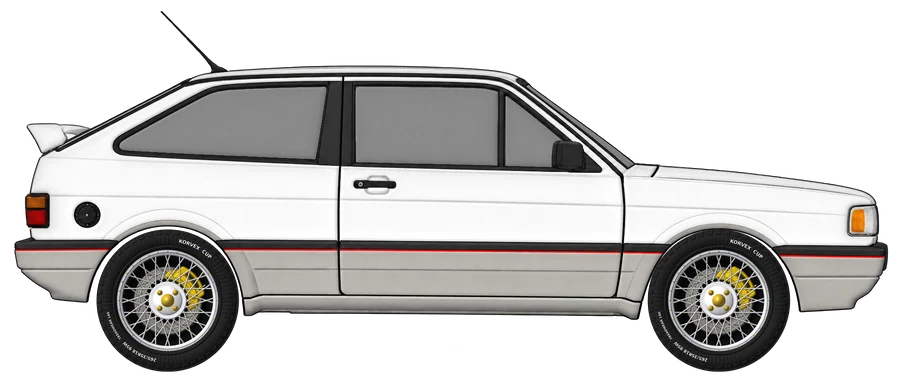
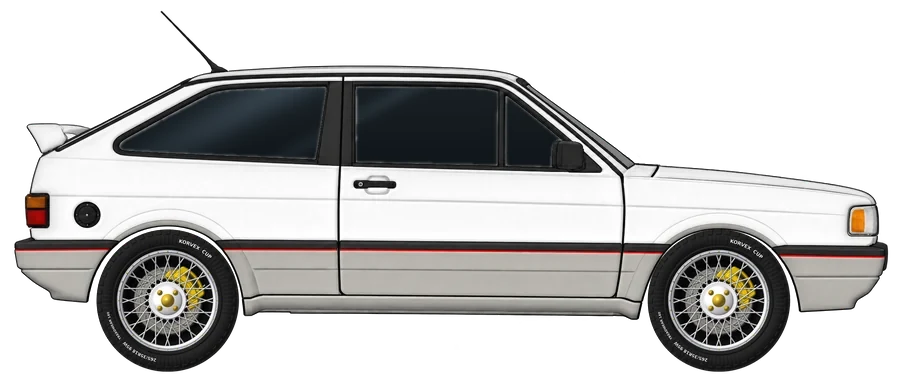
Adiciona instrumentos da cabine e atualiza visuais do Gol

Changed region(s): [[0.1244, 0.234, 0.6222, 0.4681]]

diff --git a/assets/instrumentos.js b/assets/instrumentos.js
@@ -1,0 +1,56 @@
+/* Demonstrações visuais de instrumentos e câmbio. Valores ilustrativos, não são os do jogo. */
+(()=>{
+const $=s=>document.querySelector(s),rm=matchMedia("(prefers-reduced-motion:reduce)").matches,calm=()=>document.documentElement.classList.contains("calm")||rm;
+const visible=(el,set)=>new IntersectionObserver(e=>set(e[0].isIntersecting)).observe(el);
+/* ---------- câmbio ---------- */
+const gc=$("#gears");
+if(gc&&window.Tach){
+ const M=3.65,TOT=30,PAIRS=[[7,23],[10,20],[12,18],[15,15],[17,13]],W=860,H=330,Y1=104,D=TOT*M,Y2=Y1+D,x=gc.getContext("2d");
+ const tach=Tach.create($("#tach"),{panel:"#e05a2b",light:"#ffffff",lit:1,rpm:900});
+ let gear=0,thr=0,rpm=900,th=0,vis=true,last=performance.now(),cut=0;
+ let cx=104;const cols=PAIRS.map(([nd,nn])=>{const rd=nd*M,rn=nn*M,w=2*Math.max(rd,rn),c={nd,nn,rd,rn,x:cx+w/2};cx+=w+14;return c});
+  const teeth=(cxx,cy,N,r,a,fill,edge)=>{const st=6.2832/N,ro=r+M*.9,ri=r-M*1.1;x.beginPath();
+  for(let k=0;k<N;k++){const b=a+k*st;[[ri,-.47],[ro,-.25],[ro,.25],[ri,.47]].forEach(([R,f],i)=>{const q=b+f*st;(k||i)?x.lineTo(cxx+Math.cos(q)*R,cy+Math.sin(q)*R):x.moveTo(cxx+Math.cos(q)*R,cy+Math.sin(q)*R)})}
+  x.closePath();const g=x.createRadialGradient(cxx-r*.3,cy-r*.4,r*.1,cxx,cy,ro);g.addColorStop(0,fill[0]);g.addColorStop(1,fill[1]);x.fillStyle=g;x.fill();x.lineWidth=1.5;x.strokeStyle=edge;x.stroke();
+  /* furos de alívio e cubo */
+  if(r>40){const n=r>70?5:4;x.fillStyle="#070a08";for(let k=0;k<n;k++){const q=a+k*6.2832/n,rr=r*.55,hr=r*.17;x.beginPath();x.arc(cxx+Math.cos(q)*rr,cy+Math.sin(q)*rr,hr,0,6.2832);x.fill()}}
+  x.fillStyle="#0b0f0c";x.beginPath();x.arc(cxx,cy,Math.min(14,r*.32),0,6.2832);x.fill();x.strokeStyle=edge;x.stroke()};
+ const shaft=(y,ang,col)=>{x.fillStyle="#1b2220";x.fillRect(8,y-9,W-16,18);x.strokeStyle=col;x.lineWidth=1.5;x.strokeRect(8,y-9,W-16,18);
+  x.save();x.beginPath();x.rect(8,y-9,W-16,18);x.clip();x.strokeStyle="#ffffff22";x.lineWidth=2;for(let i=-3;i<(W/22);i++){const px=8+i*22+((ang*22/1.2)%22);x.beginPath();x.moveTo(px,y-9);x.lineTo(px+8,y+9);x.stroke()}x.restore()};
+ const render=()=>{x.setTransform(gc.width/W,0,0,gc.height/H,0,0);x.clearRect(0,0,W,H);
+  const sel=gear?cols[gear-1]:null,ratio=sel?sel.nd/sel.nn:0,thOut=sel?-th*ratio:0;
+  shaft(Y1,th,"#4b5d4f");shaft(Y2,thOut,sel?"#b6ef3d":"#4b5d4f");
+  cols.forEach((c,i)=>{const on=gear===i+1,fd=on?["#e4ff9a","#6aa11d"]:["#cfd6d0","#5c6761"],fn=on?["#e4ff9a","#6aa11d"]:["#aab3ad","#444d48"],ed=on?"#d9ff6d":"#242b27";
+   const th2=-(c.nd/c.nn)*(th-Math.PI/2)+Math.PI/2+Math.PI+Math.PI/c.nn;
+   teeth(c.x,Y2,c.nn,c.rn,th2,fn,ed);teeth(c.x,Y1,c.nd,c.rd,th,fd,ed);
+   x.fillStyle=on?"#b6ef3d":"#8d9a90";x.font="700 15px Inter,Arial,sans-serif";x.textAlign="center";x.fillText((i+1)+"ª  ·  "+(c.nn/c.nd).toFixed(2).replace(".",",")+":1",c.x,H-8)});
+  if(sel){x.fillStyle="#ffd21a";x.fillRect(sel.x+sel.rn+(sel.x+sel.rn<W-30?2:-8),Y2-16,10,32);x.fillStyle="#ffd21a";x.font="700 12px Inter,Arial,sans-serif";x.fillText("luva",sel.x+sel.rn+7,Y2-22)}
+  x.fillStyle="#9fb094";x.font="700 12px Inter,Arial,sans-serif";x.textAlign="left";x.fillText("MOTOR",14,Y1-2);x.fillText("▸ entrada",14,Y1+13);x.fillText("RODAS",14,Y2-2);x.fillText("saída ▸",14,Y2+13)};
+ const rs=()=>{const w=gc.clientWidth,k=Math.min(devicePixelRatio||1,2);gc.width=Math.round(w*k);gc.height=Math.round(w*H/W*k)};rs();new ResizeObserver(rs).observe(gc);visible(gc,v=>vis=v);
+ const ro=$("#rpmv"),go=$("#gv"),rv=$("#rv"),ov=$("#ov");
+ const tick=t=>{const dt=Math.min(.05,(t-last)/1000);last=t;
+  if(vis&&!document.hidden){const target=900+thr*6300*(gear?1:1.05);rpm+=(target-rpm)*Math.min(1,dt*(gear?1.7:3.2));
+   if(rpm>6950){rpm=6350;cut=.25}cut=Math.max(0,cut-dt);
+   if(!calm())th+=dt*(rpm/6000)*3.2;
+   tach.set({rpm:rpm+(cut?0:0)});render();
+   ro.textContent=Math.round(rpm/10)*10;go.textContent=gear?gear+"ª marcha":"Ponto morto";rv.textContent=gear?(cols[gear-1].nn/cols[gear-1].nd).toFixed(2).replace(".",",")+" : 1":"—";
+   ov.textContent=gear?Math.round(rpm*cols[gear-1].nd/cols[gear-1].nn)+" rpm":"0 rpm"}
+  requestAnimationFrame(tick)};requestAnimationFrame(tick);
+ const bs=[...document.querySelectorAll("[data-gear]")];bs.forEach(b=>b.addEventListener("click",()=>{gear=+b.dataset.gear;bs.forEach(o=>o.setAttribute("aria-pressed",o===b))}));
+ const sl=$("#thr");sl.addEventListener("input",()=>{thr=sl.value/100;$("#thrv").textContent=sl.value+"%"});
+ addEventListener("keydown",e=>{if(e.target.tagName==="INPUT")return;const n={"0":0,"n":0,"N":0}[e.key];const g=/^[1-5]$/.test(e.key)?+e.key:n;if(g!==undefined){bs[g].click()}});
+}
+/* ---------- cabine: painel e luz personalizáveis ---------- */
+const pc=$("#tachc");
+if(pc&&window.Tach){
+ const tc=Tach.create(pc,{panel:"#e05a2b",light:"#ffffff",lit:1,rpm:3200});let lit=1,litT=1,rp=3200,sweep=true,vis=true,last=performance.now(),t0=0;visible(pc,v=>vis=v);
+ const sw=(id,cb)=>{const box=$(id);box.addEventListener("click",e=>{const b=e.target.closest("button");if(!b)return;box.querySelectorAll("button").forEach(o=>o.setAttribute("aria-pressed",o===b));cb(b.dataset.c,b.title)})};
+ const nm=$("#pn"),ln=$("#ln");
+ sw("#sw-panel",(c,n)=>{tc.set({panel:c});nm.textContent=n});sw("#sw-light",(c,n)=>{tc.set({light:c});ln.textContent=n});
+ $("#luz").addEventListener("click",e=>{const on=e.currentTarget.getAttribute("aria-pressed")!=="true";e.currentTarget.setAttribute("aria-pressed",on);e.currentTarget.textContent=on?"Luz acesa":"Luz apagada";litT=on?1:0});
+ const r=$("#rp");r.addEventListener("input",()=>{sweep=false;rp=+r.value;$("#sweep").setAttribute("aria-pressed","false");tc.set({rpm:rp})});
+ $("#sweep").addEventListener("click",e=>{sweep=e.currentTarget.getAttribute("aria-pressed")!=="true";e.currentTarget.setAttribute("aria-pressed",sweep)});
+ const f=t=>{const dt=Math.min(.05,(t-last)/1000);last=t;t0+=dt;if(vis&&!document.hidden){if(Math.abs(lit-litT)>.004)lit+=(litT-lit)*Math.min(1,dt*7);else lit=litT;
+  if(sweep&&!calm()){rp=3600+3300*Math.sin(t0*.9)*Math.sin(t0*.37+1);r.value=rp}tc.set({lit,rpm:rp})}requestAnimationFrame(f)};requestAnimationFrame(f);
+}
+})();

diff --git a/cabine.html b/cabine.html
@@ -9,8 +9,16 @@
 </head><body><canvas id="fx" aria-hidden="true"></canvas><div id="wipe" aria-hidden="true"><img src="assets/img/logo-640.webp" alt="" width="640" height="640"></div><a class="skip" href="#main">Pular para o conteúdo</a><div id="prog" aria-hidden="true"></div>
 <div class="w"><header class="hd"><a class="logo" href="index.html" aria-label="BR CAR LIFE, início"><img src="assets/img/crow-160.webp" alt="" width="44" height="44"><span>BR CAR LIFE</span></a><nav aria-label="Principal"><ul><li><a href="index.html">Início</a></li><li><a href="jogo.html" class="section-current">O jogo</a></li><li><a href="fenomenos.html">Recursos</a></li><li><a href="devlog.html">Diário</a></li></ul></nav><button class="cm" id="calm" type="button" aria-pressed="false">Pausar animações</button></header></div>
 <main id="main" tabindex="-1"><div class="w"><div class="pg page-intro"><a class="back-link" href="jogo.html">← O jogo</a><span class="eyebrow">Cabine e instrumentos · em desenvolvimento</span><h1 class="ph1">A leitura de cada carro.</h1><p class="sub">O painel faz parte da identidade do veículo. O Gol GTI 1994 é um dos painéis em integração, não o modelo de todos os carros.</p></div>
+<section data-r class="sec" id="painel"><h2>Conta-giros personalizável</h2>
+<div class="close"><canvas id="tachc" class="tach" role="img" aria-label="Conta-giros com painel e luz personalizáveis"></canvas>
+<div class="close-t"><span class="eyebrow">Painel + luz</span><b><span id="pn">Laranja</span> · luz <span id="ln">Branca</span></b>
+<p>No jogo, a cor do painel apagado e a cor da luz se combinam: painel vermelho com luz branca fica avermelhado; painel branco com luz verde fica um verde mais claro. Experimente as combinações.</p>
+<div class="kn"><span class="lbl">Painel</span><div class="swatches" id="sw-panel" role="group" aria-label="Cor do painel"><button type="button" data-c="#e05a2b" title="Laranja" aria-label="Painel Laranja" aria-pressed="true" style="--c:#e05a2b"></button><button type="button" data-c="#d62828" title="Vermelho" aria-label="Painel Vermelho" aria-pressed="false" style="--c:#d62828"></button><button type="button" data-c="#f1f1ee" title="Branco" aria-label="Painel Branco" aria-pressed="false" style="--c:#f1f1ee"></button><button type="button" data-c="#2f7bff" title="Azul" aria-label="Painel Azul" aria-pressed="false" style="--c:#2f7bff"></button><button type="button" data-c="#2fd36b" title="Verde" aria-label="Painel Verde" aria-pressed="false" style="--c:#2fd36b"></button><button type="button" data-c="#ffd21a" title="Amarelo" aria-label="Painel Amarelo" aria-pressed="false" style="--c:#ffd21a"></button></div></div>
+<div class="kn"><span class="lbl">Luz</span><div class="swatches" id="sw-light" role="group" aria-label="Cor da luz"><button type="button" data-c="#ffffff" title="Branca" aria-label="Luz Branca" aria-pressed="true" style="--c:#ffffff"></button><button type="button" data-c="#4dff7a" title="Verde" aria-label="Luz Verde" aria-pressed="false" style="--c:#4dff7a"></button><button type="button" data-c="#ffb347" title="Âmbar" aria-label="Luz Âmbar" aria-pressed="false" style="--c:#ffb347"></button><button type="button" data-c="#58a6ff" title="Azul" aria-label="Luz Azul" aria-pressed="false" style="--c:#58a6ff"></button><button type="button" data-c="#ff4d4d" title="Vermelha" aria-label="Luz Vermelha" aria-pressed="false" style="--c:#ff4d4d"></button></div></div>
+<div class="kn row"><button type="button" class="tgl" id="luz" aria-pressed="true">Luz acesa</button><button type="button" class="tgl" id="sweep" aria-pressed="true">Varredura</button></div>
+<label class="rng"><span>Rotação</span><input id="rp" type="range" min="0" max="7200" value="3200"></label></div></div></section>
 <section class="sec" id="por-carro"><h2>Painéis próprios</h2><p>Cada carro terá seu painel correspondente. Instrumentos, luzes e apresentação visual devem acompanhar o veículo representado. O painel do Gol GTI 1994 está em desenvolvimento e ainda precisa de validação no jogo.</p><div class="info-grid"><article><span class="status-pill doing">Em desenvolvimento</span><h3>Gol GTI 1994</h3><p>Velocidade, rotação, combustível, temperatura e avisos fazem parte da proposta do painel. Parte dos sinais ainda usa controles de demonstração.</p></article><article><span class="status-pill planned">Previsto</span><h3>Novos carros</h3><p>À medida que outros veículos forem adicionados, seus painéis próprios serão preparados. A lista de carros ainda não está anunciada.</p></article></div></section>
 <section class="sec" id="universal"><div class="feature-banner"><span class="status-pill planned">Previsto</span><h2>Um painel universal quando faltar o dedicado</h2><p>Se um carro novo ainda não tiver seus instrumentos específicos prontos, a intenção é oferecer um painel universal para manter a informação de condução disponível. Esse recurso ainda não está concluído.</p></div></section>
 <section class="sec next-step"><div><span class="eyebrow">Outras áreas</span><h2>O som tem seu lugar.</h2><p>Motor, escapamento, rádio e som automotivo ficam reunidos na página de áudio.</p></div><a class="btn alt" href="radio.html">Explorar áudio</a></section>
 </div></main><footer><div class="w ft"><img src="assets/img/crow-160.webp" alt="CROW77 Projects" width="84" height="84" loading="lazy"><p>© 2026 CROW77 Projects. BR CAR LIFE está em desenvolvimento. Recursos e visuais podem mudar até o lançamento.</p></div></footer><script src="assets/wheel.js?v=4"></script>
-<script src="assets/main.js?v=4"></script></body></html>
+<script src="assets/gauge.js?v=4"></script><script src="assets/main.js?v=4"></script><script src="assets/instrumentos.js?v=4"></script></body></html>

diff --git a/assets/style.css b/assets/style.css
@@ -596,3 +596,54 @@ footer{border-top:1px solid #b6ef3d33;background:#05070600}
 .w:has(>.hd)>.hd{max-width:1100px;margin:0 auto;padding:10px clamp(16px,4vw,32px)}
 .page-intro .ph1,.status-intro .ph1,.ph1{overflow-wrap:break-word;word-break:normal;hyphens:manual}
 .page-intro .ph1{font-size:clamp(2.7rem,5.4vw,5.2rem)}
+
+/* ===== v5 · instrumentos ===== */
+canvas.tach{display:block;width:100%;height:auto;aspect-ratio:580/584;max-width:420px;margin:0 auto;border-radius:0!important;background:none!important;box-shadow:none!important;filter:drop-shadow(0 24px 30px #000c) drop-shadow(0 0 50px #3ccf2326)}
+.lab{display:grid;grid-template-columns:minmax(200px,340px) 1fr;gap:clamp(18px,4vw,48px);align-items:center;margin-top:26px;padding:clamp(18px,3vw,30px);border:1px solid var(--edge);border-radius:8px;background:linear-gradient(160deg,var(--card),var(--card2))}
+.lab .gears{grid-column:1/-1;display:block;width:100%;height:auto;aspect-ratio:860/330;border-radius:6px;background:radial-gradient(80% 90% at 50% 40%,#18221a,#080b09);box-shadow:inset 0 0 0 1px #b6ef3d22}
+.rpm-read{display:flex;align-items:baseline;gap:10px}.rpm-read b{font:400 clamp(3rem,7vw,4.8rem)/1 var(--hd);color:var(--lime);font-variant-numeric:tabular-nums;min-width:3.4ch}.rpm-read span{text-transform:uppercase;letter-spacing:.12em;font-weight:700;color:#9fb094}
+.gearbtns{display:flex;flex-wrap:wrap;gap:8px;margin:14px 0 18px}
+.gearbtns button,.tgl{min-width:52px;min-height:48px;padding:0 16px;font:700 1.1rem var(--bd,inherit);color:#e8f3d6;background:#ffffff0d;border:1px solid #b6ef3d55;border-radius:4px;cursor:pointer;clip-path:polygon(9px 0,100% 0,calc(100% - 9px) 100%,0 100%);transition:background .15s,color .15s}
+.gearbtns button:hover,.tgl:hover{background:#b6ef3d22}.gearbtns button[aria-pressed=true],.tgl[aria-pressed=true]{background:var(--lime);color:#0a1206;border-color:var(--lime)}
+.rng{display:block;margin:6px 0 16px}.rng>span{display:flex;justify-content:space-between;font-weight:700;margin-bottom:8px}.rng b{color:var(--lime)}.rng input{width:100%;accent-color:var(--lime);height:28px}
+.reads{display:grid;grid-template-columns:repeat(3,minmax(0,1fr));gap:12px;margin:0}.reads div{padding:12px 14px;border:1px solid #b6ef3d22;border-radius:4px;background:#05080666}.reads dt{font-size:.74rem;letter-spacing:.1em;text-transform:uppercase;color:#9fb094;margin:0 0 4px}.reads dd{margin:0;font-weight:700;font-size:1.05rem}
+.kn{margin:16px 0}.kn .lbl{display:block;font-size:.76rem;letter-spacing:.12em;text-transform:uppercase;font-weight:700;color:#9fb094;margin-bottom:8px}.kn.row{display:flex;gap:10px;flex-wrap:wrap}
+.swatches{display:flex;flex-wrap:wrap;gap:10px}.swatches button{width:44px;height:44px;border-radius:50%;border:3px solid #0a0f0b;background:var(--c);box-shadow:0 0 0 1px #ffffff33;cursor:pointer;transition:scale .15s}.swatches button:hover{scale:1.1}.swatches button[aria-pressed=true]{box-shadow:0 0 0 3px var(--lime)}
+@media(max-width:760px){.lab{grid-template-columns:1fr}.reads{grid-template-columns:1fr 1fr 1fr;gap:8px}.reads div{padding:10px 8px}.reads dd{font-size:.92rem}.gearbtns button{flex:1}}
+
+/* ===== v5 · pista e fumaça ===== */
+.smk{position:absolute;left:-14%;width:128%;top:-34%;height:164%;pointer-events:none;z-index:3}
+.hero-track{overflow:visible}
+.hero-track::before{bottom:2%;height:30%;border-top:0;background:
+ linear-gradient(180deg,#e5484d 0 4px,#f2f2ec 4px 5px,transparent 5px),
+ repeating-linear-gradient(90deg,transparent 0 0,transparent 0),
+ linear-gradient(180deg,#323b34 0,#1c231e 38%,#0d120f 100%);
+ box-shadow:0 -30px 90px #9bdc3330,inset 0 1px 0 #ffffff26}
+.hero-track::before{background-blend-mode:normal}
+.hero-track::after{right:auto;left:-40vw;width:calc(100% + 80vw);bottom:9%;height:5px;transform:none;opacity:.8;z-index:-1;background:repeating-linear-gradient(90deg,#ffd21a 0 90px,transparent 90px 190px);filter:drop-shadow(0 0 6px #ffd21a88)}
+.track-glare{bottom:12%;height:30px;opacity:.28}
+.stage::before{content:"";position:absolute;left:8%;right:6%;bottom:-3%;height:10%;background:radial-gradient(50% 50% at 50% 50%,#000d,transparent 72%);z-index:-1}
+.rev-btn{position:relative;z-index:6}.stage{pointer-events:none}.stage #car{pointer-events:none}
+/* ===== v5 · respiro dos cartões ===== */
+main>.w>section.sec.next-step{padding:clamp(26px,5vw,48px);margin-top:56px}
+.feature,.res,.proof-card,.status-card,.directory-card{padding:clamp(18px,3vw,26px)}
+.feature{display:grid;gap:8px;align-content:start}.feature>*{margin:0}
+.feature h3{font-size:1.25rem;line-height:1.15}
+.fl>div,.fl>article{padding:clamp(20px,3vw,26px)}
+
+/* ===== v5 · celular ===== */
+.lab .gwrap{grid-column:1/-1;overflow-x:auto;border-radius:6px;-webkit-overflow-scrolling:touch;overscroll-behavior-x:contain}
+.lab .gwrap .gears{min-width:700px}
+.page-intro>*:not(.pi-wheel):not(canvas){position:relative;z-index:1}
+.page-intro .ph1,.status-intro .ph1{font-size:clamp(2rem,8.6vw,5.2rem)}
+@media(min-width:850px){.page-intro .ph1,.status-intro .ph1{font-size:clamp(3rem,5.4vw,5.2rem)}}
+@media(max-width:650px){
+ .directory-card>img{width:34%!important;right:-4%!important;top:auto!important;bottom:-6%!important;opacity:.3;z-index:0}
+ .directory-card>*:not(img):not(b){position:relative;z-index:1}
+ .hero-showcase .hero-frame{padding-inline:14px}
+ .btn{min-height:46px}
+ .lab,.close{padding:16px}
+ .rpm-read b{font-size:3.2rem}
+}
+@media(max-width:700px){.hero-showcase .hero-track .stage{width:100%;margin-inline:0}}
+@media(max-width:650px){.directory-card>img{display:none!important}.page-intro .ph1,.status-intro .ph1{max-width:none;font-size:clamp(1.9rem,8.2vw,3rem)}}

diff --git a/assets/gauge.js b/assets/gauge.js
@@ -1,0 +1,49 @@
+/* Conta-giros: atlas único (assets/img/painel.webp) com máscaras em canais. As cores do painel e da luz são aplicadas aqui,
+   como no jogo: luz = painel × luz, levemente clareada (painel vermelho + luz branca = avermelhado). */
+(()=>{
+const AW=576,AH=564,NW=51,NH=318,CX=288.3,CY=291.6,PX=24.4,PY=292,LW=580,LH=584;
+let atlas=null,cbs=[],ready=false;
+const im=new Image();im.onload=()=>{
+ const c=document.createElement("canvas");c.width=im.width;c.height=im.height;const x=c.getContext("2d",{willReadFrequently:true});x.drawImage(im,0,0);
+ const d=x.getImageData(0,0,im.width,im.height).data,mk=(w,h,ox,fn)=>{const o=document.createElement("canvas");o.width=w;o.height=h;const ox2=o.getContext("2d"),id=ox2.createImageData(w,h);
+  for(let j=0;j<h;j++)for(let i=0;i<w;i++){const s=((j)*im.width+i+ox)*4,t=(j*w+i)*4,v=fn(d,s);id.data[t]=v[0];id.data[t+1]=v[1];id.data[t+2]=v[2];id.data[t+3]=v[3]}ox2.putImageData(id,0,0);return o};
+ const W=(a)=>[255,255,255,a];
+ atlas={dial:mk(AW,AH,0,(d,s)=>W(d[s])),glow:mk(AW,AH,0,(d,s)=>W(d[s+1])),
+  nCol:mk(NW,NH,AW,(d,s)=>[d[s],d[s+1],d[s+2],255]),nA:mk(NW,NH,AW+NW,(d,s)=>W(d[s])),nL:mk(NW,NH,AW+NW,(d,s)=>W(d[s+1])),nS:mk(NW,NH,AW+NW,(d,s)=>[0,0,0,d[s+2]])};
+ /* a cor do ponteiro precisa do alfa do próprio ponteiro */
+ const n=atlas.nCol.getContext("2d");n.globalCompositeOperation="destination-in";n.drawImage(atlas.nA,0,0);
+ ready=true;cbs.splice(0).forEach(f=>f())};im.src="assets/img/painel.webp";
+const hex=h=>{h=h.replace("#","");return[0,2,4].map(i=>parseInt(h.substr(i,2),16)/255)};
+const litOf=(p,l)=>p.map((v,i)=>{const m=v*l[i];return 1-(1-m)*(1-.28*l[i])});
+const css=(c,a=1)=>`rgba(${c.map(v=>Math.round(v*255)).join(",")},${a})`;
+const tint=(src,col)=>{const o=document.createElement("canvas");o.width=src.width;o.height=src.height;const x=o.getContext("2d");x.drawImage(src,0,0);x.globalCompositeOperation="source-in";x.fillStyle=css(col);x.fillRect(0,0,o.width,o.height);return o};
+const deg=r=>{const k=r/1000;return k<1?184.5-21*k:163.5-27.65*(k-1)};
+window.Tach={ready:f=>ready?f():cbs.push(f),
+create(cv,o={}){
+ const s={panel:"#e05a2b",light:"#ffffff",lit:0,rpm:900,...o},x=cv.getContext("2d"),cache={};
+ const get=(k,src,col)=>{const key=k+col.map(v=>v.toFixed(2));return cache[key]||(cache[key]=(Object.keys(cache).length>24&&(Object.keys(cache).forEach(q=>delete cache[q])),tint(src,col)))};
+ const api={s,set(p){Object.assign(s,p);api.draw()},draw(){
+  if(!ready)return;const k=Math.min(devicePixelRatio||1,2),w=cv.clientWidth||320,W=Math.round(w*k),H=Math.round(w*LH/LW*k);if(cv.width!==W||cv.height!==H){cv.width=W;cv.height=H}
+  x.setTransform(W/LW,0,0,H/LH,0,0);x.clearRect(0,0,LW,LH);
+  const P=hex(s.panel),L=hex(s.light),lc=litOf(P,L),u=s.lit,mixc=P.map((v,i)=>v*(1-u)+lc[i]*u),ox=2;
+  /* face */
+  x.save();x.beginPath();x.arc(CX+ox,CY,288,0,6.2832);x.clip();
+  let g=x.createRadialGradient(CX+ox-60,CY-90,20,CX+ox,CY,290);g.addColorStop(0,"#23292c");g.addColorStop(.7,"#0c0f10");g.addColorStop(1,"#040505");x.fillStyle=g;x.fillRect(0,0,LW,LH);
+  /* leve brilho da luz sobre a face */
+  if(u>0){g=x.createRadialGradient(CX+ox,CY,10,CX+ox,CY,280);g.addColorStop(0,css(lc,.16*u));g.addColorStop(1,css(lc,0));x.fillStyle=g;x.fillRect(0,0,LW,LH)}
+  x.drawImage(get("d",atlas.dial,mixc),ox,0);
+  if(u>0){x.globalCompositeOperation="lighter";x.globalAlpha=.75*u;x.drawImage(get("g",atlas.glow,lc),ox,0);x.globalAlpha=1;x.globalCompositeOperation="source-over"}
+  /* ponteiro */
+  const a=(90-deg(Math.max(0,Math.min(7600,s.rpm))))*Math.PI/180;
+  x.save();x.translate(CX+ox+7,CY+9);x.rotate(a);x.globalAlpha=.6;x.drawImage(atlas.nS,-PX,-PY);x.restore();
+  x.save();x.translate(CX+ox,CY);x.rotate(a);x.drawImage(atlas.nCol,-PX,-PY);
+  if(u>0){x.globalCompositeOperation="lighter";x.globalAlpha=.9*u;x.drawImage(get("n",atlas.nL,lc),-PX,-PY)}x.restore();
+  /* pino central */
+  g=x.createRadialGradient(CX+ox-5,CY-6,2,CX+ox,CY,26);g.addColorStop(0,"#6b7276");g.addColorStop(1,"#15191b");x.fillStyle=g;x.beginPath();x.arc(CX+ox,CY,24,0,6.2832);x.fill();
+  x.restore();
+  /* aro e vidro */
+  x.lineWidth=7;x.strokeStyle="#2c3236";x.beginPath();x.arc(CX+ox,CY,285,0,6.2832);x.stroke();x.lineWidth=2;x.strokeStyle="#ffffff1f";x.beginPath();x.arc(CX+ox,CY,280,3.4,5.1);x.stroke();
+  x.save();x.beginPath();x.arc(CX+ox,CY,280,0,6.2832);x.clip();g=x.createLinearGradient(80,60,340,330);g.addColorStop(0,"#ffffff1c");g.addColorStop(.5,"#ffffff05");g.addColorStop(1,"#ffffff00");x.fillStyle=g;x.beginPath();x.moveTo(0,0);x.lineTo(LW,0);x.lineTo(0,LH*.55);x.fill();x.restore();
+ }};
+ Tach.ready(()=>api.draw());return api}};
+})();

diff --git a/assets/main.js b/assets/main.js
@@ -61,7 +61,7 @@ while(K.length&&K[0].l<=0)K.shift();
 const car=$("#car");let step=()=>{},stop=()=>{},rev=0;
 if(car){
 const whs=$$(".wh",car),wcs=$$(".wc",car),cv=$("canvas",car),ASP=2010/840;
-let ptx=0,pty=0,lp=0,gl=null,U={},lx=.5,ly=.9,idle=-9e9,rearRot=0,vis=false,pt=0;
+let frontRot=0,ptx=0,pty=0,lp=0,gl=null,U={},lx=.5,ly=.9,idle=-9e9,rearRot=0,vis=false,pt=0;
 const fallback=()=>{if(!$(".car-poster,.fb",car)){const i=new Image();i.className="fb";i.alt="";i.width=2010;i.height=840;i.src="assets/img/gol-corpo-2010.webp";car.prepend(i)}cv.hidden=true;cv.style.display="none"};
 try{gl=cv.getContext("webgl")}catch(e){}
 function paint(t){
@@ -91,19 +91,29 @@ cv.addEventListener("webglcontextlost",e=>{e.preventDefault();gl=null;fallback()
 const wpaint=t=>{if(!Wheel.ready())return;const cr=car.getBoundingClientRect(),m=.5+.5*Math.sin(t/1400),col=[.24+.76*m,.81+.01*m,.14-.04*m],k=Math.min(devicePixelRatio||1,2);
 wcs.forEach((c,i)=>{const r=c.getBoundingClientRect();if(!r.width)return;const S=Math.max(160,Math.min(480,Math.round(r.width*k)));
 const L=[(cr.left+lx*cr.width-r.left)/r.width,1-(cr.top+(1-ly)*cr.height-r.top)/r.height,.55].map((v,j)=>j<2?Math.max(-2,Math.min(3,v)):v);
-const o=Wheel.draw({size:S,rot:i?0:rearRot,light:L,color:col});if(!o)return;if(c.width!==S){c.width=c.height=S}const x=c.getContext("2d");x.clearRect(0,0,S,S);x.drawImage(o,0,0)})};
+const o=Wheel.draw({size:S,rot:i?frontRot:rearRot,light:L,color:col});if(!o)return;if(c.width!==S){c.width=c.height=S}const x=c.getContext("2d");x.clearRect(0,0,S,S);x.drawImage(o,0,0)})};
 Wheel.on(()=>wpaint(0));
 const aim=()=>{const r=car.getBoundingClientRect();lx=Math.max(-.3,Math.min(1.3,(ptx-r.left)/r.width));ly=Math.max(-.2,Math.min(1.4,1-(pty-r.top)/r.height))};
 addEventListener("pointermove",e=>{ptx=e.clientX;pty=e.clientY;idle=performance.now();if(calm){aim();paint(0);wpaint(0)}},{passive:true});
 new IntersectionObserver(e=>vis=e[0].isIntersecting).observe(car.parentElement);
 const rb=$("#rev");if(rb){if(rm)rb.hidden=true;else rb.addEventListener("click",()=>{if(!calm)rev=1})}
+/* Tração dianteira: a roda da frente patina forte e solta fumaça; a traseira só gira de leve */
+const stage=car.parentElement,sk=document.createElement("canvas"),sg=sk.getContext("2d"),PF=[];let lt2=0;sk.className="smk";sk.setAttribute("aria-hidden","true");stage.append(sk);
+const puff=(x,y,p)=>{PF.push({x,y,vx:-(1.4+Math.random()*2.8)*p,vy:-(.3+Math.random()*1.1),r:7+Math.random()*9,g:.9+Math.random()*.9,l:1,d:.012+Math.random()*.01})};
+const smk=(t,dt)=>{const r=sk.getBoundingClientRect(),k=Math.min(devicePixelRatio||1,1.5),w=Math.round(r.width*k),h=Math.round(r.height*k);if(sk.width!==w||sk.height!==h){sk.width=w;sk.height=h}
+ if(rev>.08){const f=whs[1].getBoundingClientRect(),sc=f.width/160;for(let i=0;i<(rev>.5?3:2);i++)puff(f.left+f.width*(.42+Math.random()*.16)-r.left,f.bottom-r.top-f.width*.03,(.6+rev)*sc)}
+ sg.setTransform(k,0,0,k,0,0);sg.clearRect(0,0,r.width,r.height);
+ for(let i=PF.length-1;i>=0;i--){const p=PF[i];p.x+=p.vx*dt;p.y+=p.vy*dt;p.vx*=Math.pow(.985,dt);p.vy-=.012*dt;p.r+=p.g*dt*(.8+p.l);p.l-=p.d*dt;if(p.l<=0){PF.splice(i,1);continue}
+  const a=Math.min(1,p.l*1.3)*.36,g=sg.createRadialGradient(p.x,p.y,0,p.x,p.y,p.r);g.addColorStop(0,"rgba(236,238,232,"+a+")");g.addColorStop(.55,"rgba(200,204,198,"+a*.55+")");g.addColorStop(1,"rgba(190,195,188,0)");sg.fillStyle=g;sg.beginPath();sg.arc(p.x,p.y,p.r,0,6.2832);sg.fill()}};
 if(!rm)step=t=>{
 if(!vis)return;
-rev*=.965;rearRot+=rev*.55;
-if(rev>.08){const w=whs[0].getBoundingClientRect();if(t-pt>50){pt=t;smoke(w.left+w.width*.12,w.bottom-10,1,1+rev*2)}}
+const dt=Math.min(3,lt2?(t-lt2)/16.7:1);lt2=t;
+rev*=Math.pow(.984,dt);frontRot+=rev*.62*dt;rearRot+=rev*.14*dt;
+stage.style.transform=rev>.06?"translate(0,"+((Math.random()-.5)*2.2*rev).toFixed(2)+"px)":"";
+smk(t,dt);
 if(t-idle<2500)aim();else{lx=.5+.5*Math.sin(t/2200);ly=.9}
 if(innerWidth>700||t-lp>33){lp=t;paint(t);wpaint(t)}};
-stop=()=>{rearRot=0;rev=0;paint(0);wpaint(0)};
+stop=()=>{rearRot=0;frontRot=0;rev=0;PF.length=0;stage.style.transform="";sg.clearRect(0,0,sk.width,sk.height);paint(0);wpaint(0)};
 }
 $$(".wc-card").forEach(c=>{const x=c.getContext("2d"),dr=(L,t)=>{const o=Wheel.draw({size:320,rot:.3,light:L,color:[.24+.76*(.5+.5*Math.sin(t/1400)),.82,.12]});if(o){x.clearRect(0,0,320,320);x.drawImage(o,0,0)}};
 Wheel.on(()=>dr(null,0));const a=c.closest("a");if(a&&!rm)a.addEventListener("pointermove",e=>{if(calm)return;const r=c.getBoundingClientRect();dr([(e.clientX-r.left)/r.width,1-(e.clientY-r.top)/r.height,.55],performance.now())},{passive:true})});

diff --git a/transmissao.html b/transmissao.html
@@ -29,6 +29,13 @@
 <div class="pg ent page-intro" style="--d:200"><a class="back-link" href="jogo.html">← O jogo</a><h1 class="ph1">Transmissão</h1>
 <p class="sub">Status: em desenvolvimento. O Gol usa câmbio manual; outras configurações também fazem parte do sistema.</p>
 <ul class="jump"><li><a href="#tipos">Tipos</a></li><li><a href="#embreagem">Embreagem</a></li><li><a href="#quebra">Desgaste</a></li></ul></div>
+<section data-r class="sec" id="cambio"><h2>Câmbio ao vivo</h2><p>Escolha uma marcha e acelere: os dois eixos e os cinco pares de engrenagens giram em câmera lenta. A luva amarela trava o par engatado no eixo de saída; os outros pares giram soltos. Demonstração ilustrativa, com relações genéricas.</p>
+<div class="lab"><div class="lab-tach"><canvas id="tach" class="tach" role="img" aria-label="Conta-giros acompanhando o motor"></canvas></div>
+<div class="lab-ctl"><div class="rpm-read"><b id="rpmv">900</b><span>rpm</span></div>
+<div class="gearbtns" role="group" aria-label="Marcha"><button type="button" data-gear="0" aria-pressed="true">N</button><button type="button" data-gear="1" aria-pressed="false">1</button><button type="button" data-gear="2" aria-pressed="false">2</button><button type="button" data-gear="3" aria-pressed="false">3</button><button type="button" data-gear="4" aria-pressed="false">4</button><button type="button" data-gear="5" aria-pressed="false">5</button></div>
+<label class="rng"><span>Acelerador <b id="thrv">0%</b></span><input id="thr" type="range" min="0" max="100" value="0"></label>
+<dl class="reads"><div><dt>Marcha</dt><dd id="gv">Ponto morto</dd></div><div><dt>Relação</dt><dd id="rv">—</dd></div><div><dt>Eixo de saída</dt><dd id="ov">0 rpm</dd></div></dl></div>
+<div class="gwrap" tabindex="0" aria-label="Engrenagens do câmbio (role para o lado no celular)"><canvas id="gears" class="gears" role="img" aria-label="Eixos e engrenagens do câmbio girando"></canvas></div></div></section>
 <section data-r class="sec" id="tipos"><h2>Configurações de câmbio</h2><p>O sistema contempla câmbio manual, automático, CVT e dupla embreagem. O Gol GTI 1994 é a configuração de referência montada no jogo.</p><div class="fl"><div><h3>Manual</h3><p>Seletor livre em H ou sequencial, e engate sincronizado ou dog. São duas escolhas independentes, e cada combinação pede um jeito de dirigir.</p></div><div><h3>Automático</h3><p>Com conversor de torque, como nos carros de passeio.</p></div><div><h3>CVT</h3><p>Câmbio de variação contínua, sem marchas fixas.</p></div><div><h3>Dupla embreagem (DCT)</h3><p>Trocas rápidas com duas embreagens trabalhando em conjunto.</p></div></div></section>
 <section data-r class="sec" id="embreagem"><h2>Embreagem e relações</h2><div class="fl"><div><h3>Embreagem de verdade</h3><p>Ela patina, esquenta e desgasta. A largada depende de como você a solta.</p></div><div><h3>Relação longa cobra do motor</h3><p>Um câmbio mais longo deixa o carro mais pesado de tirar da inércia. Escolher as relações é escolher o caráter do carro.</p></div><div><h3>Montagem peça por peça</h3><p>Carcaça, engrenagem de cada marcha, disco, platô, relação final, conversor e variador. Dá para forjar engrenagens, trocar relações dentro dos limites da carcaça e usar dentes retos, que trocam eficiência por outras características.</p></div></div></section>
 <section data-r class="sec" id="quebra"><h2>Desgaste e quebra</h2><p>O desgaste e as falhas fazem parte do modelo de transmissão e ainda precisam de validação completa no jogo.</p><div class="fl"><div><h3>Patinar custa vida útil</h3><p>Uso severo da embreagem pode acelerar seu desgaste.</p></div><div><h3>Calor reduz a capacidade</h3><p>Superaquecida, a embreagem perde força temporariamente; desgaste intenso pode deixar efeitos permanentes.</p></div><div><h3>Troca mal feita</h3><p>Engates mal casados podem desgastar sincronizadores ou danificar o câmbio.</p></div><div><h3>Sobrecarga</h3><p>Câmbio, diferencial e correia de CVT podem acumular desgaste e perder capacidade.</p></div></div></section>
@@ -37,6 +44,8 @@
 </div></main>
 <footer><div class="w ft"><img src="assets/img/crow-160.webp" alt="CROW77 Projects" width="84" height="84" loading="lazy"><p>© 2026 CROW77 Projects. BR CAR LIFE está em desenvolvimento. As demonstrações e os visuais podem mudar até o lançamento.</p></div></footer>
 <script src="assets/wheel.js?v=4"></script>
+<script src="assets/gauge.js?v=4"></script>
 <script src="assets/main.js?v=4"></script>
+<script src="assets/instrumentos.js?v=4"></script>
 </body>
 </html>
